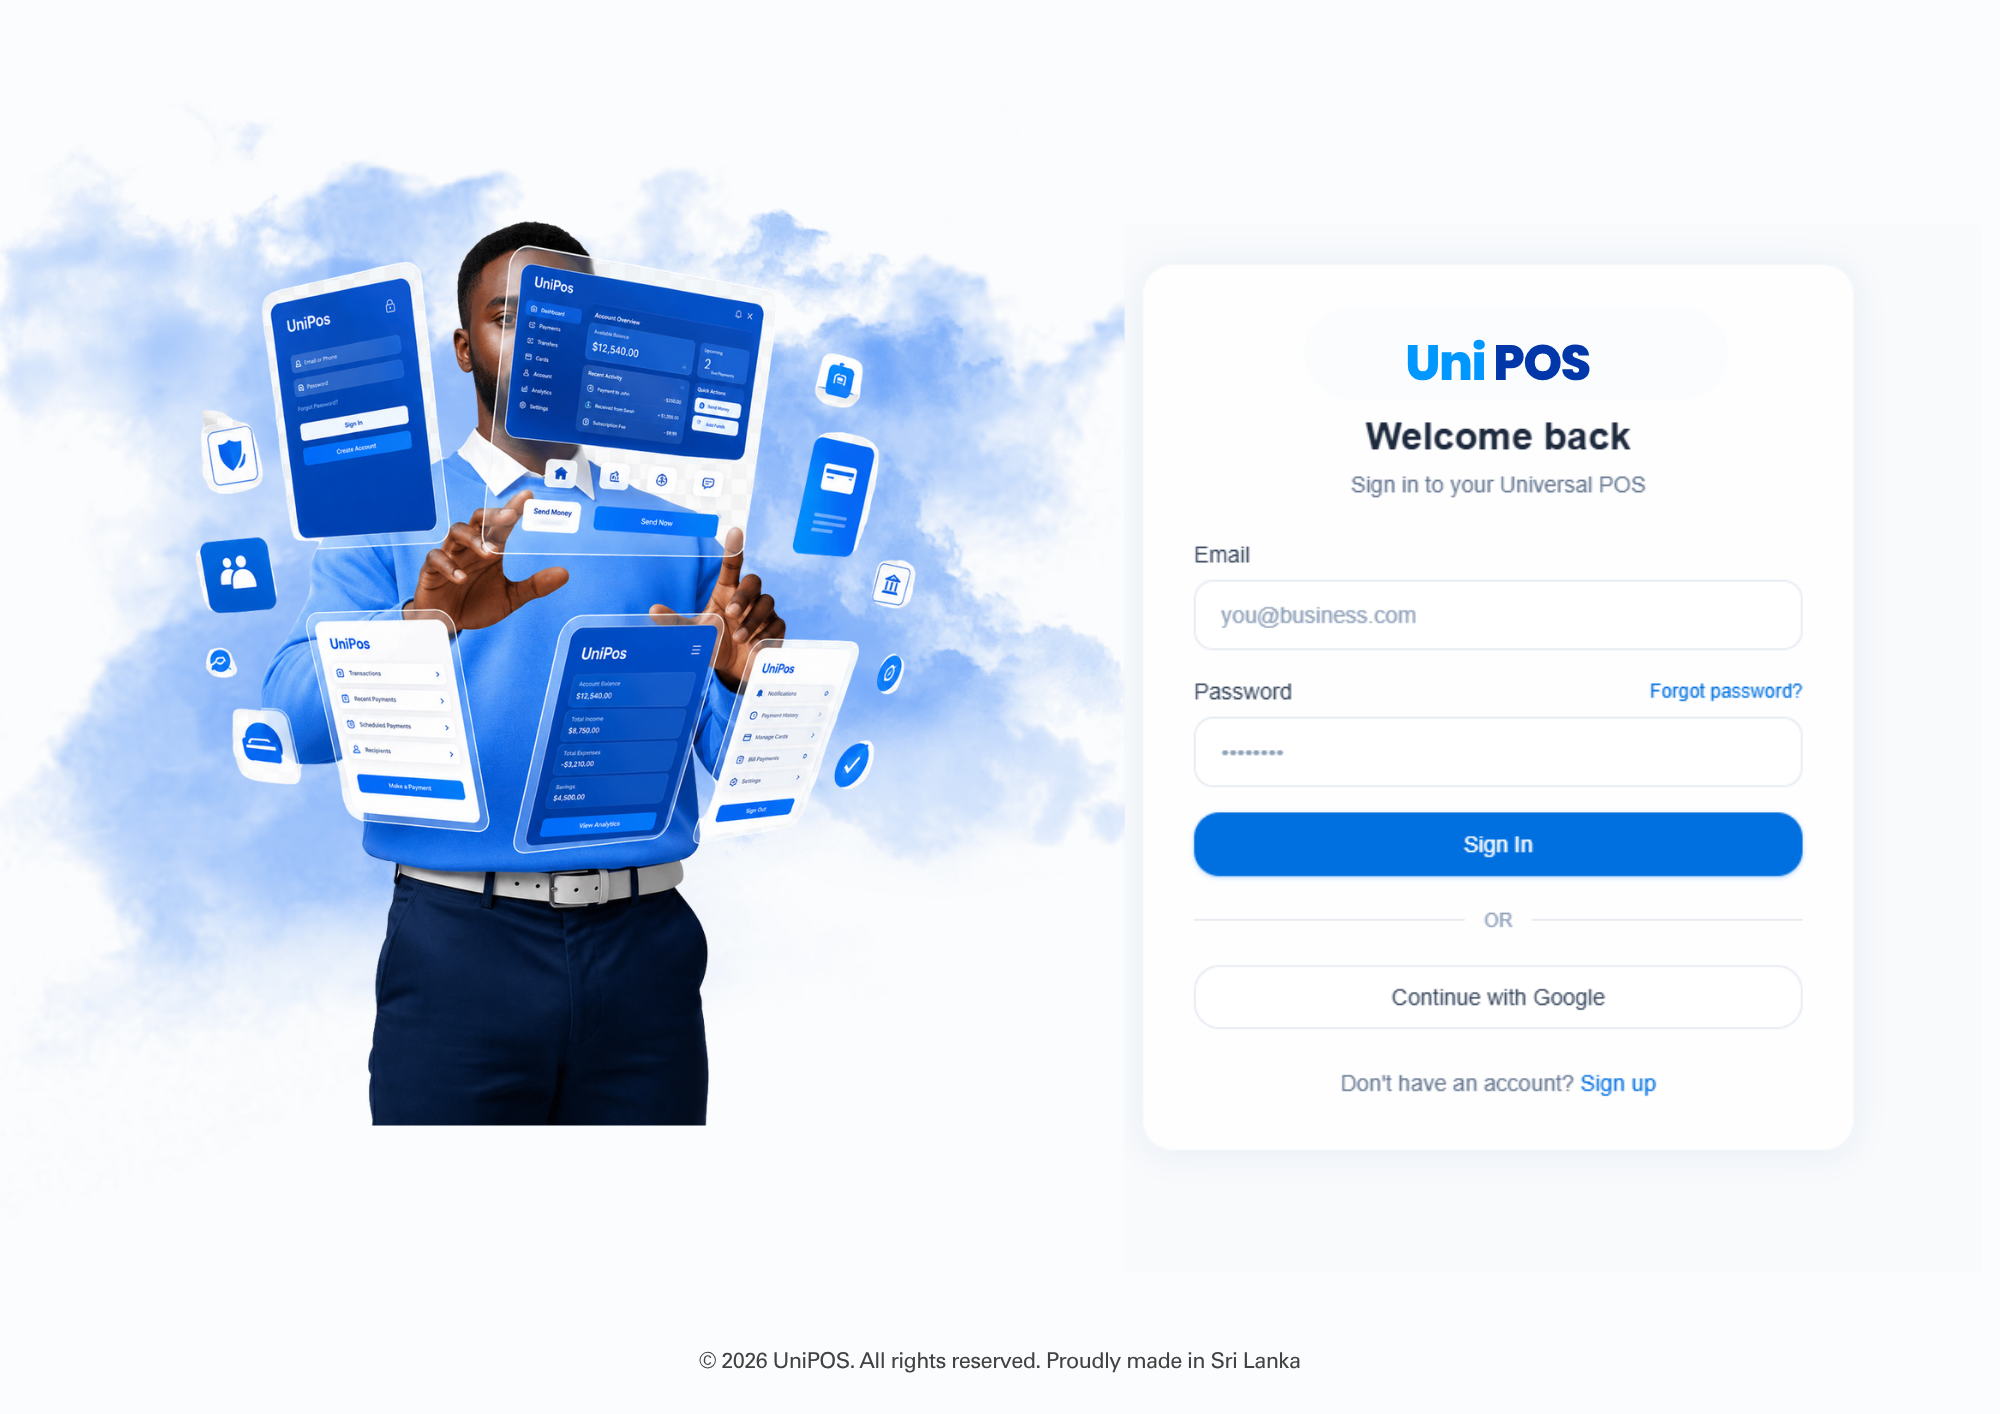
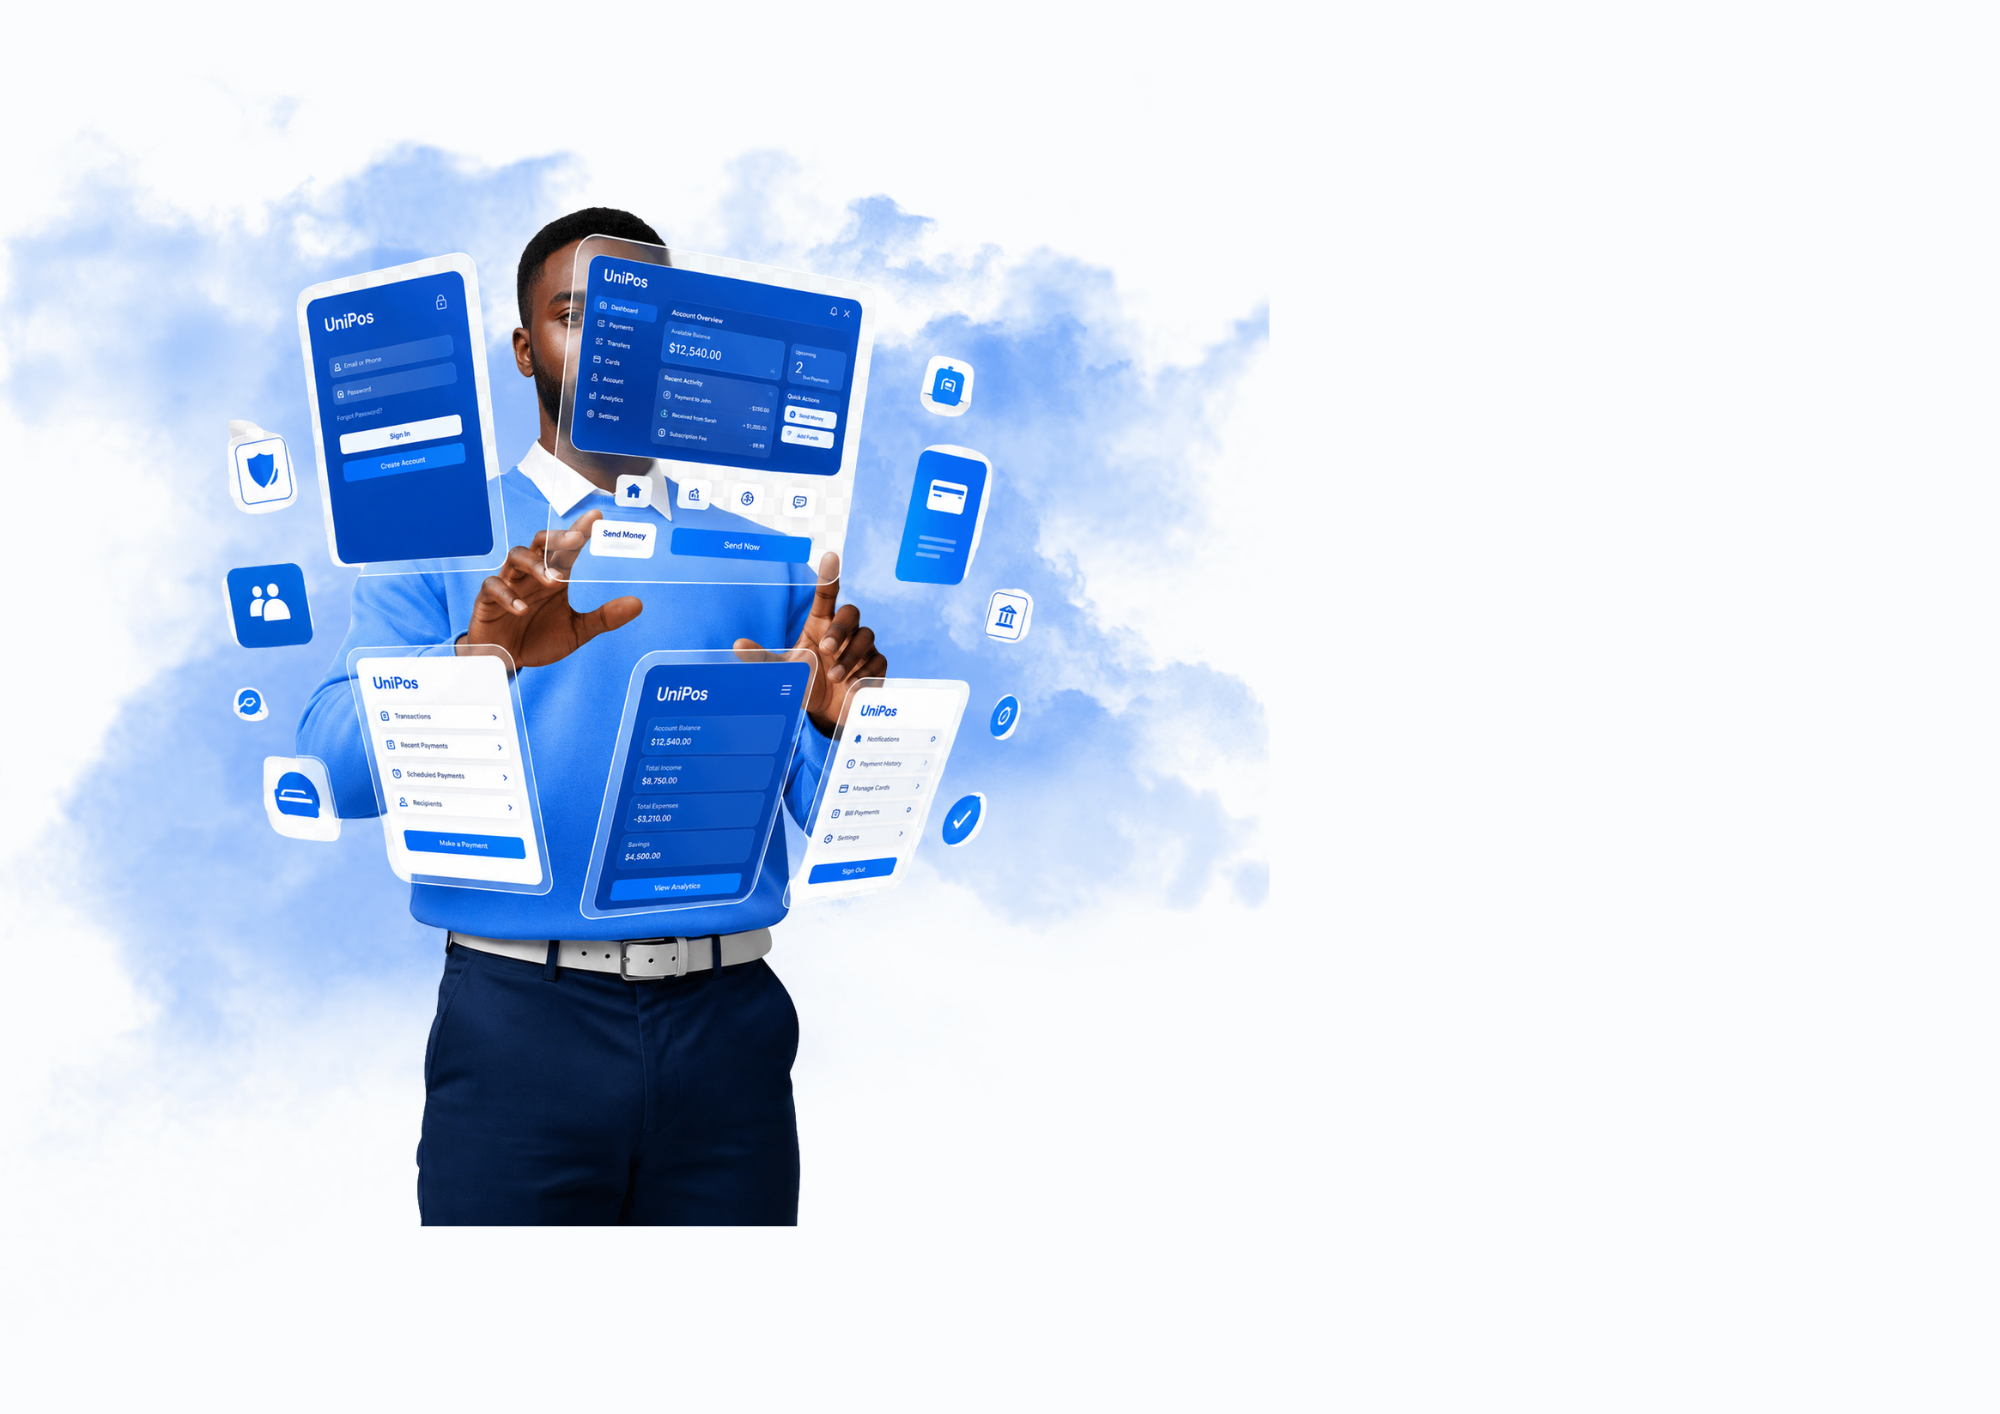
Add files via upload

diff --git a/src/app/login/page.tsx b/src/app/login/page.tsx
@@ -71,20 +71,22 @@ export default function LoginPage() {
       <div className="w-full lg:w-1/2 flex flex-col">
         <div className="flex-1 flex items-center justify-center px-6 sm:px-10">
           <div className="w-full max-w-sm">
-            {/* Logo */}
-            <div className="mb-8">
+            {/* Logo - Centered */}
+            <div className="flex justify-center mb-8">
               <Image
                 src="/assets/unipos-logo.png"
                 alt="UniPOS"
-                width={120}
-                height={40}
-                className="h-10 w-auto"
+                width={200}
+                height={60}
+                className="h-16 w-auto"
               />
             </div>
 
-            {/* Heading */}
-            <h1 className="text-3xl font-black text-slate-900 mb-2">Welcome back</h1>
-            <p className="text-sm text-slate-500 mb-8">Sign in to your Universal POS</p>
+            {/* Heading - Centered */}
+            <h1 className="text-3xl font-black text-slate-900 mb-2 text-center">Welcome Back</h1>
+            
+            {/* Subheading - Centered */}
+            <p className="text-sm text-slate-500 mb-8 text-center">Sign in to your UniPOS Account</p>
 
             {/* Form */}
             <form onSubmit={handleSubmit(onSubmit)} className="space-y-5">